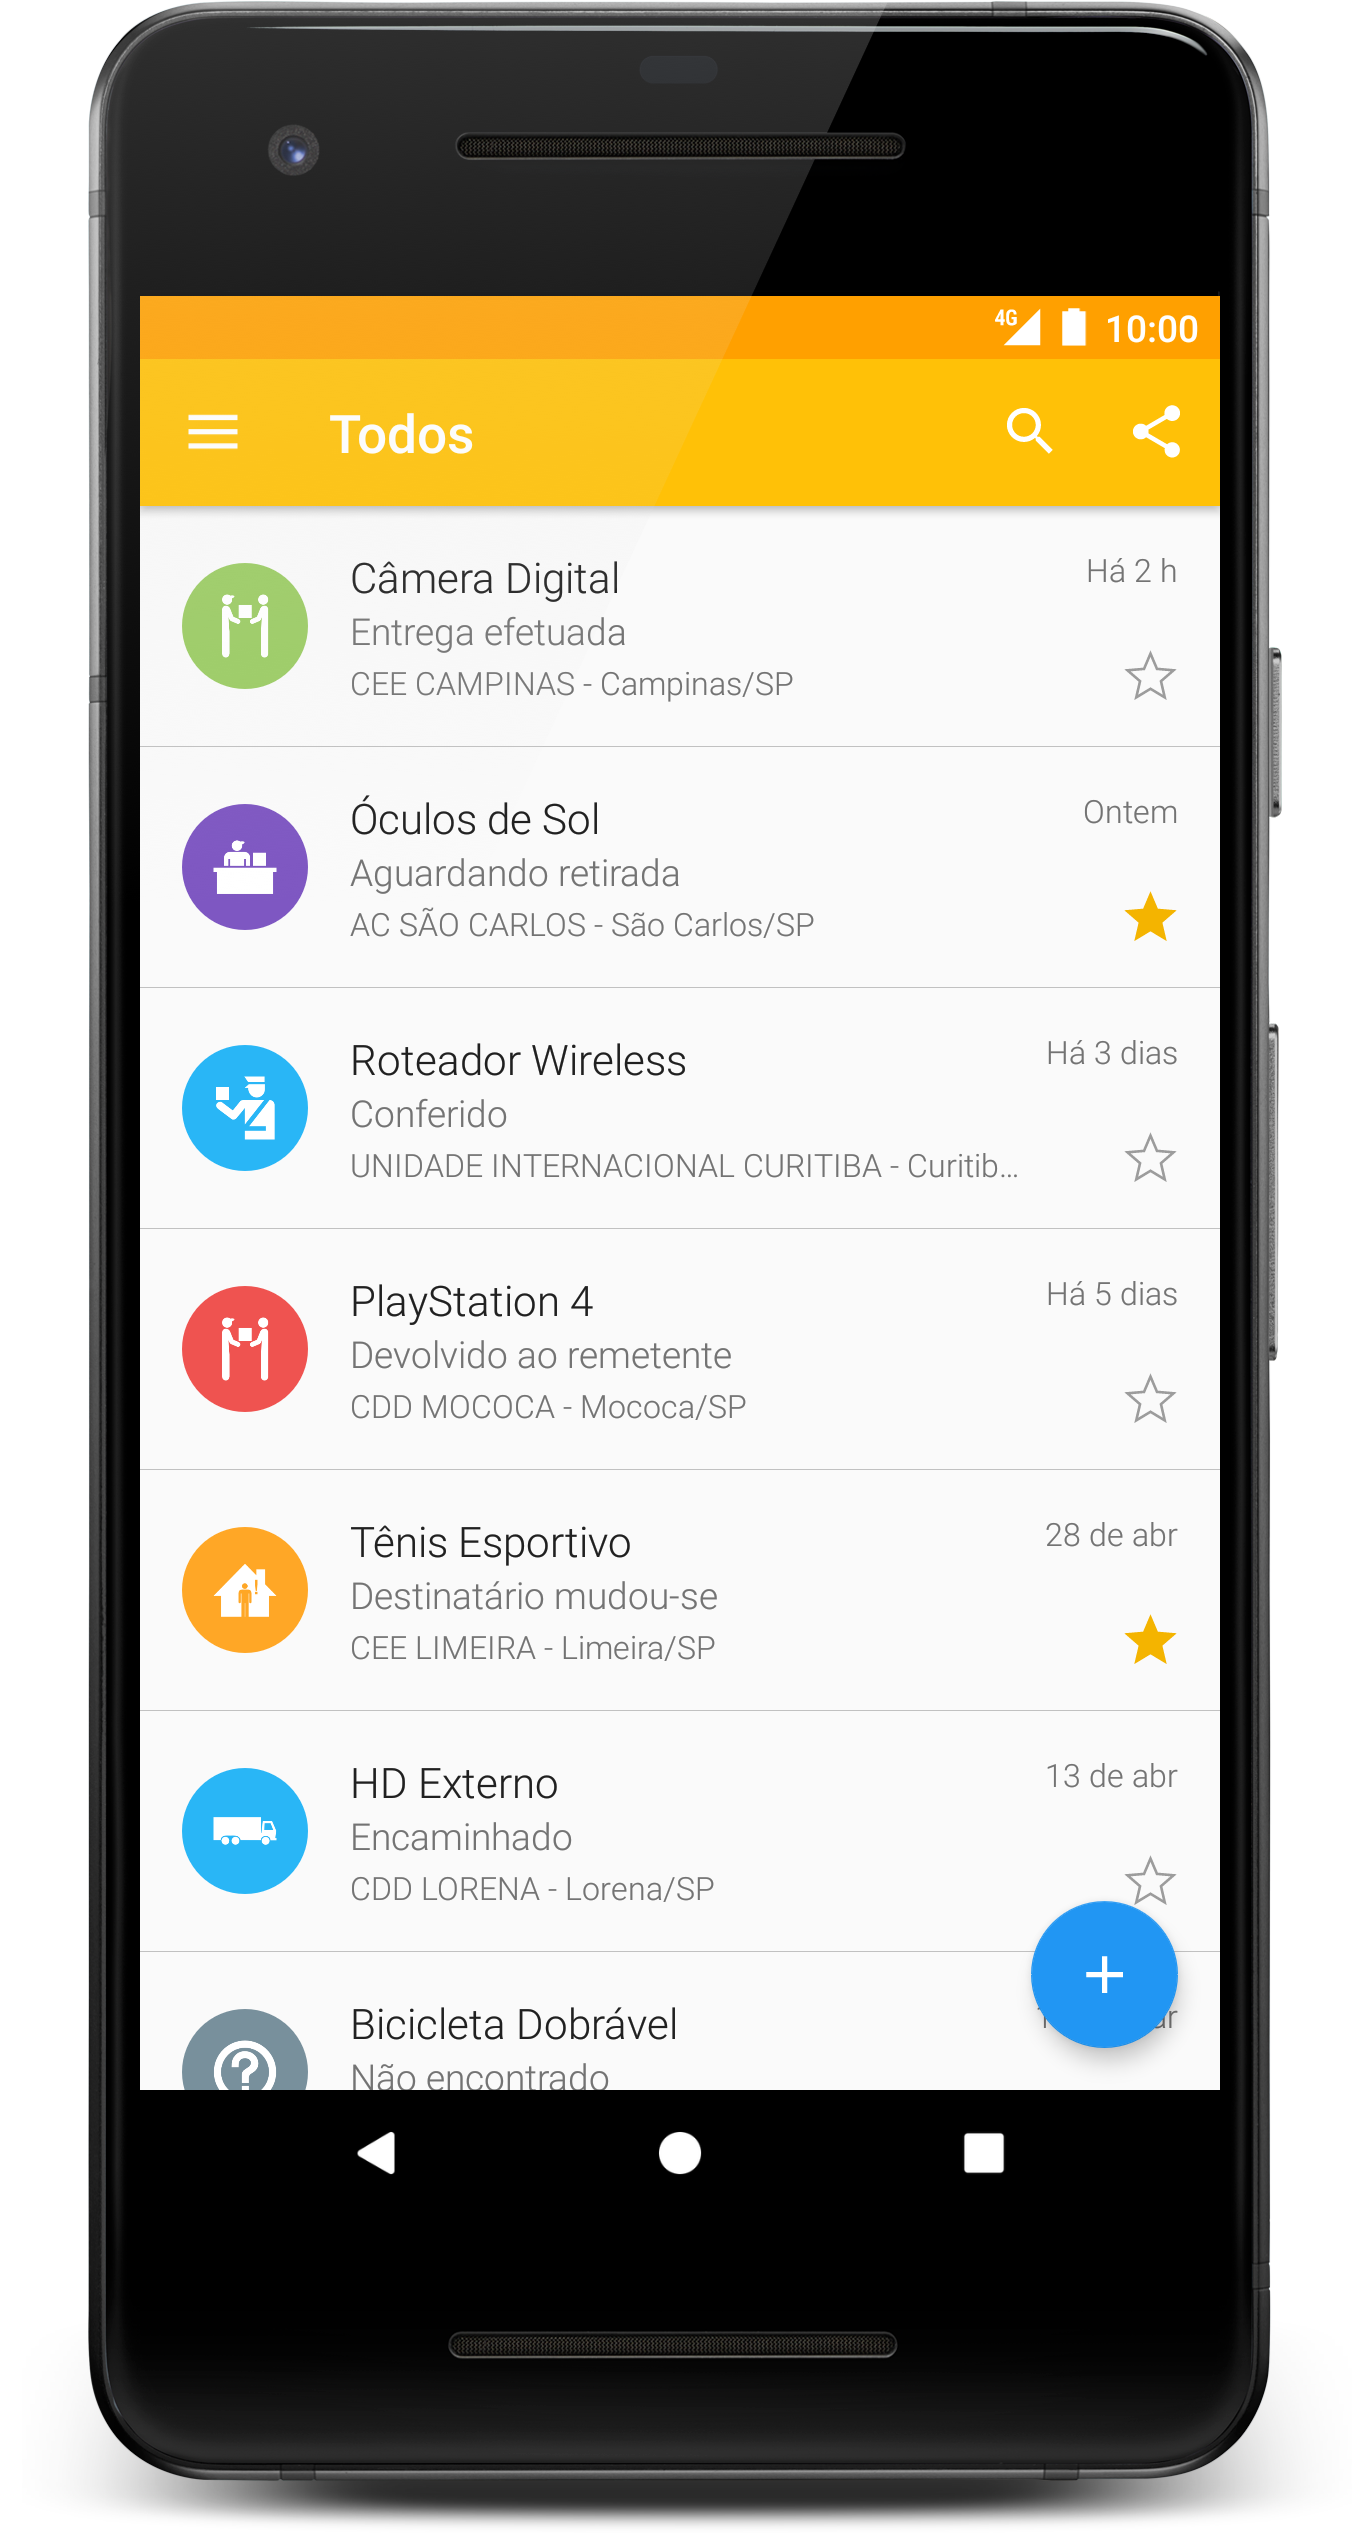
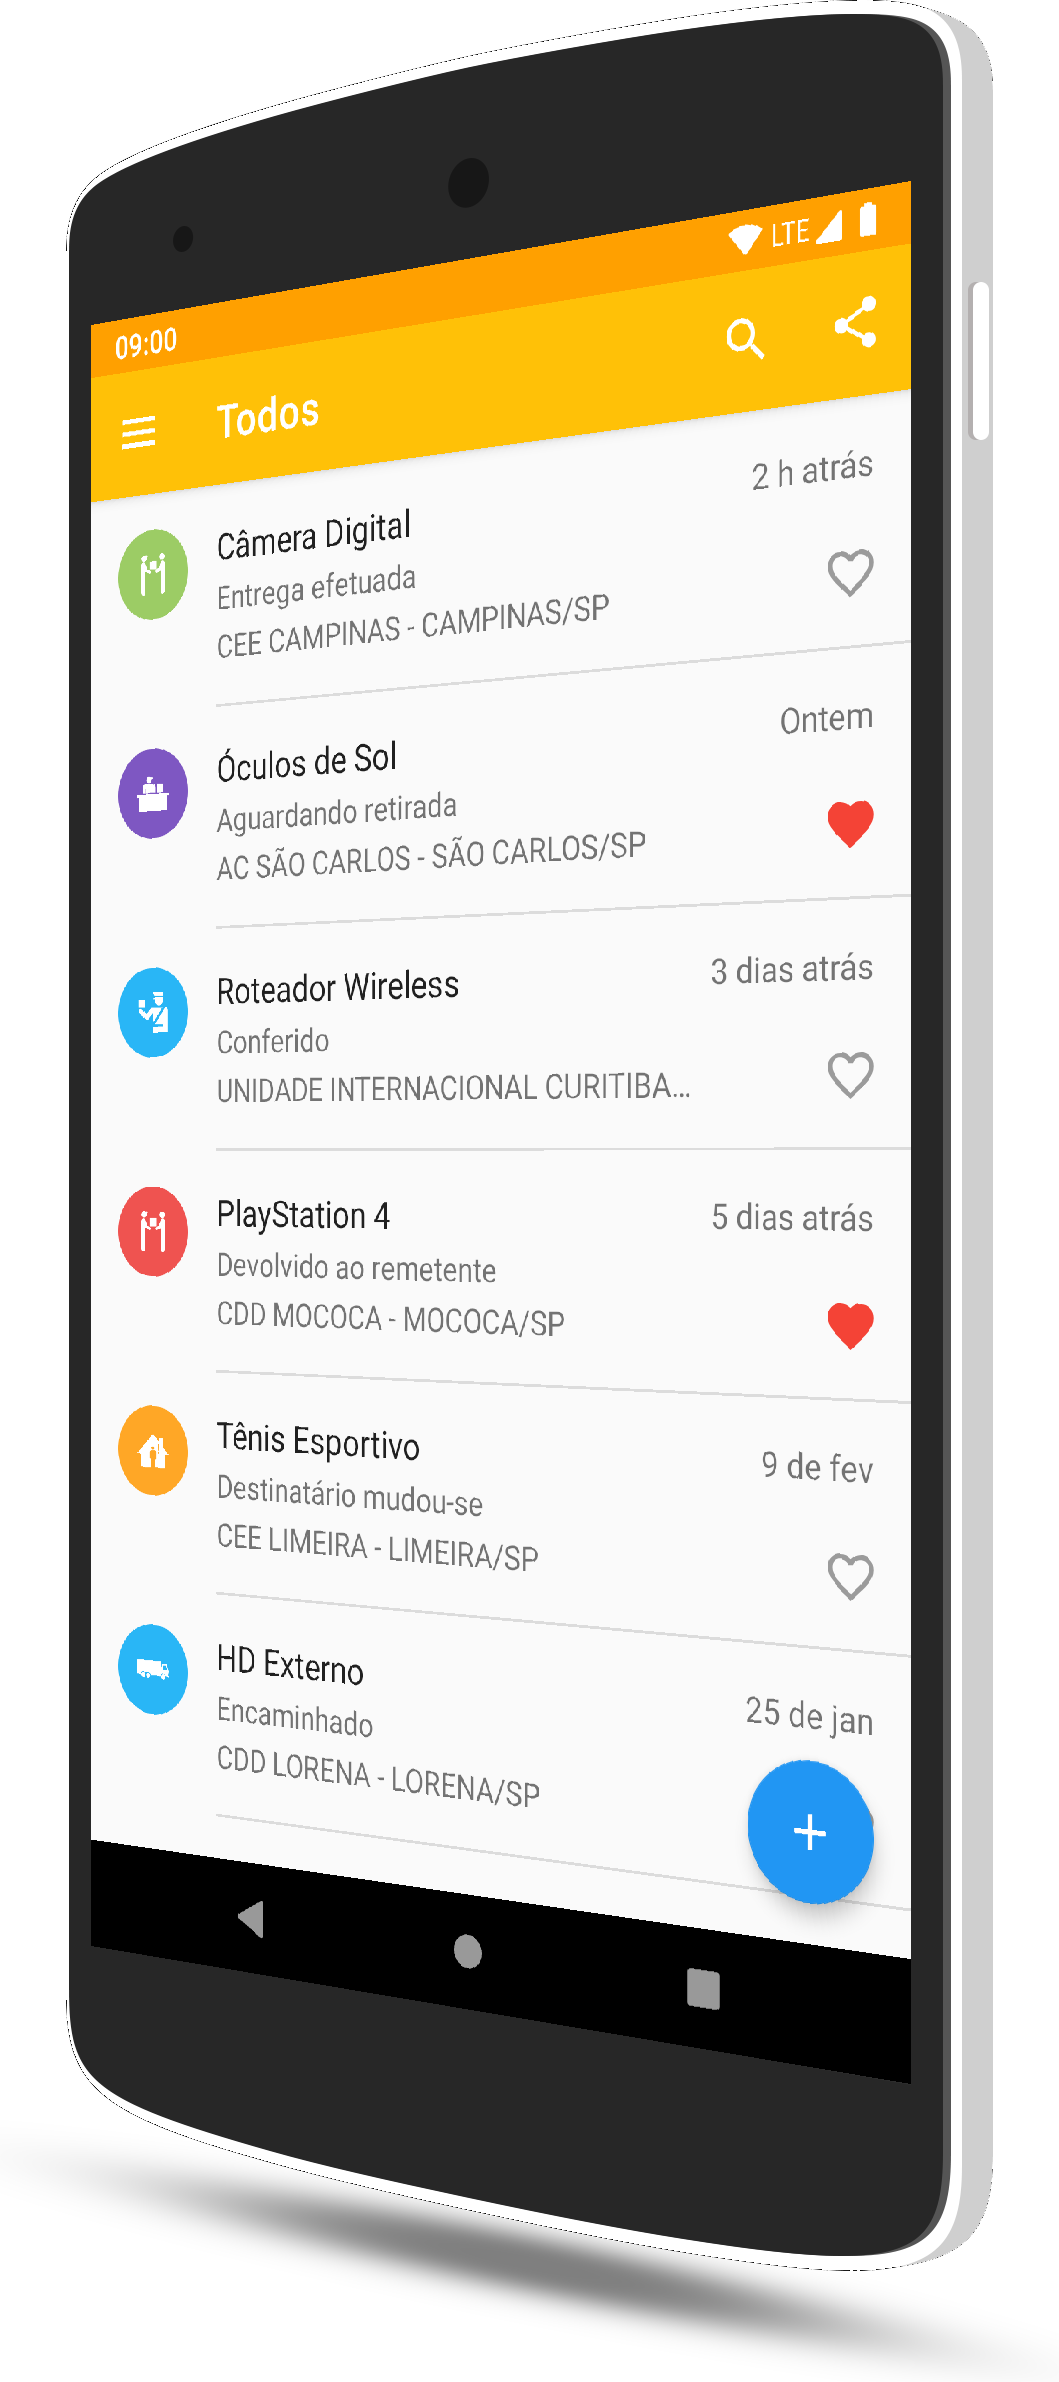
Update device art with version 3.5.0

diff --git a/src/main.css b/src/main.css
@@ -37,7 +37,7 @@ article {grid-area: body}
 }
 
 .logo {grid-area: logo; padding-top: 2.3em; width: 2.4em}
-.device {grid-area: device; margin-left: 1em; max-width: 100%}
+.device {grid-area: device; margin-left: 1em; max-height: 30em; max-width: 100%}
 .badge {margin-bottom: 1em; width: 10em}
 
 @media screen and (max-width: 60em) {
